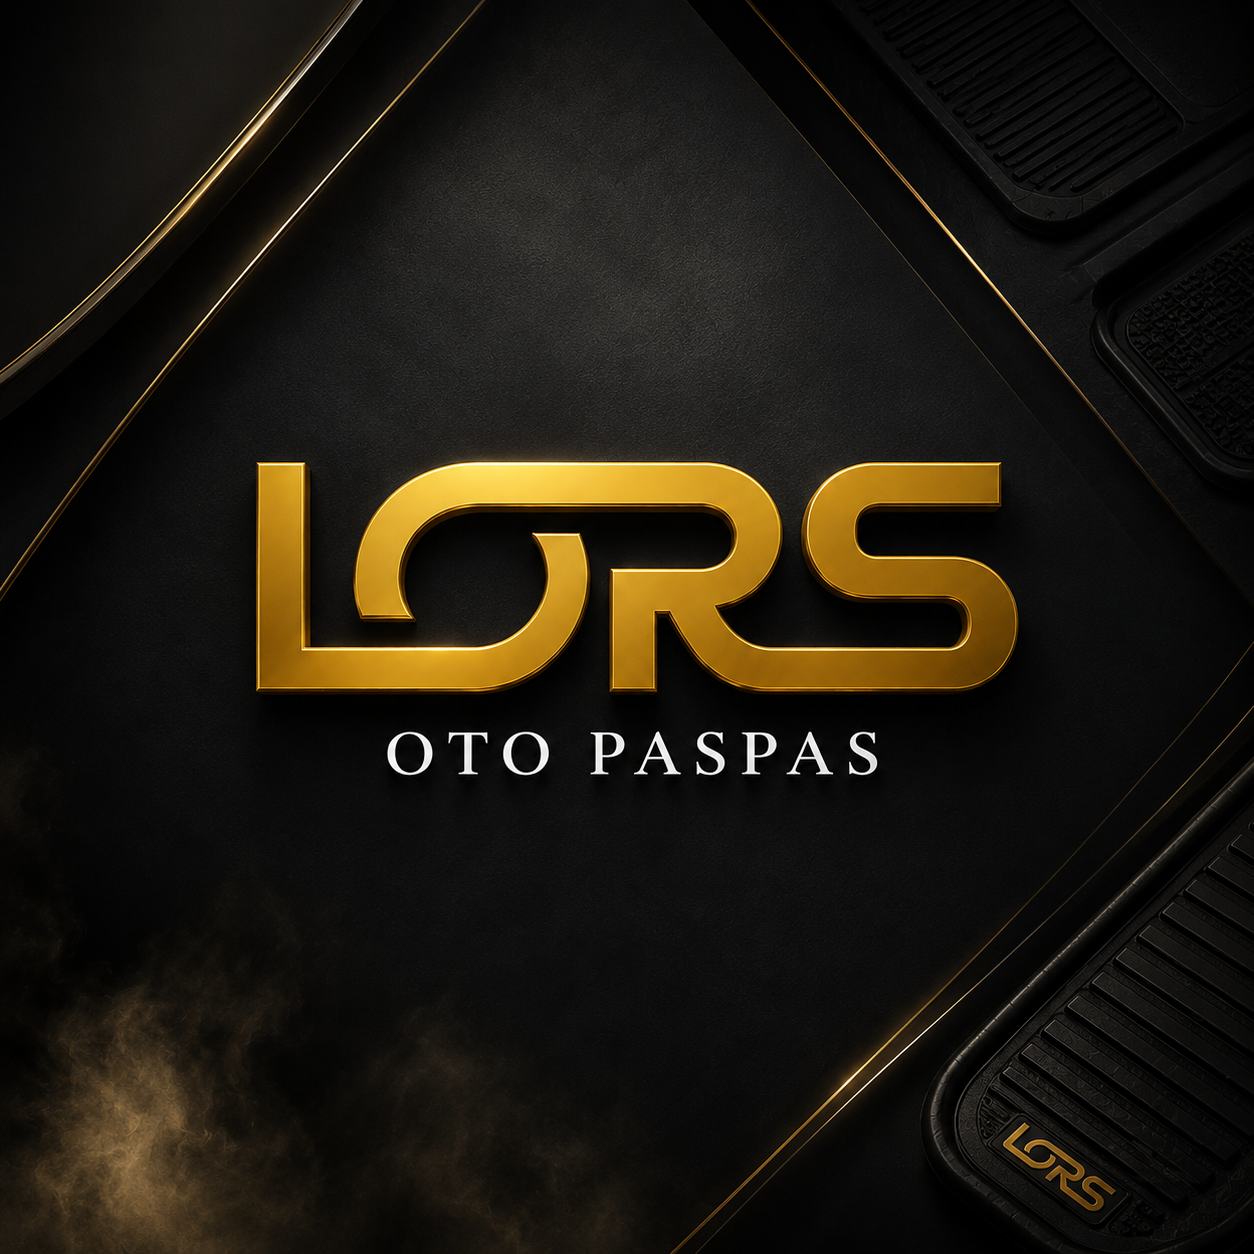
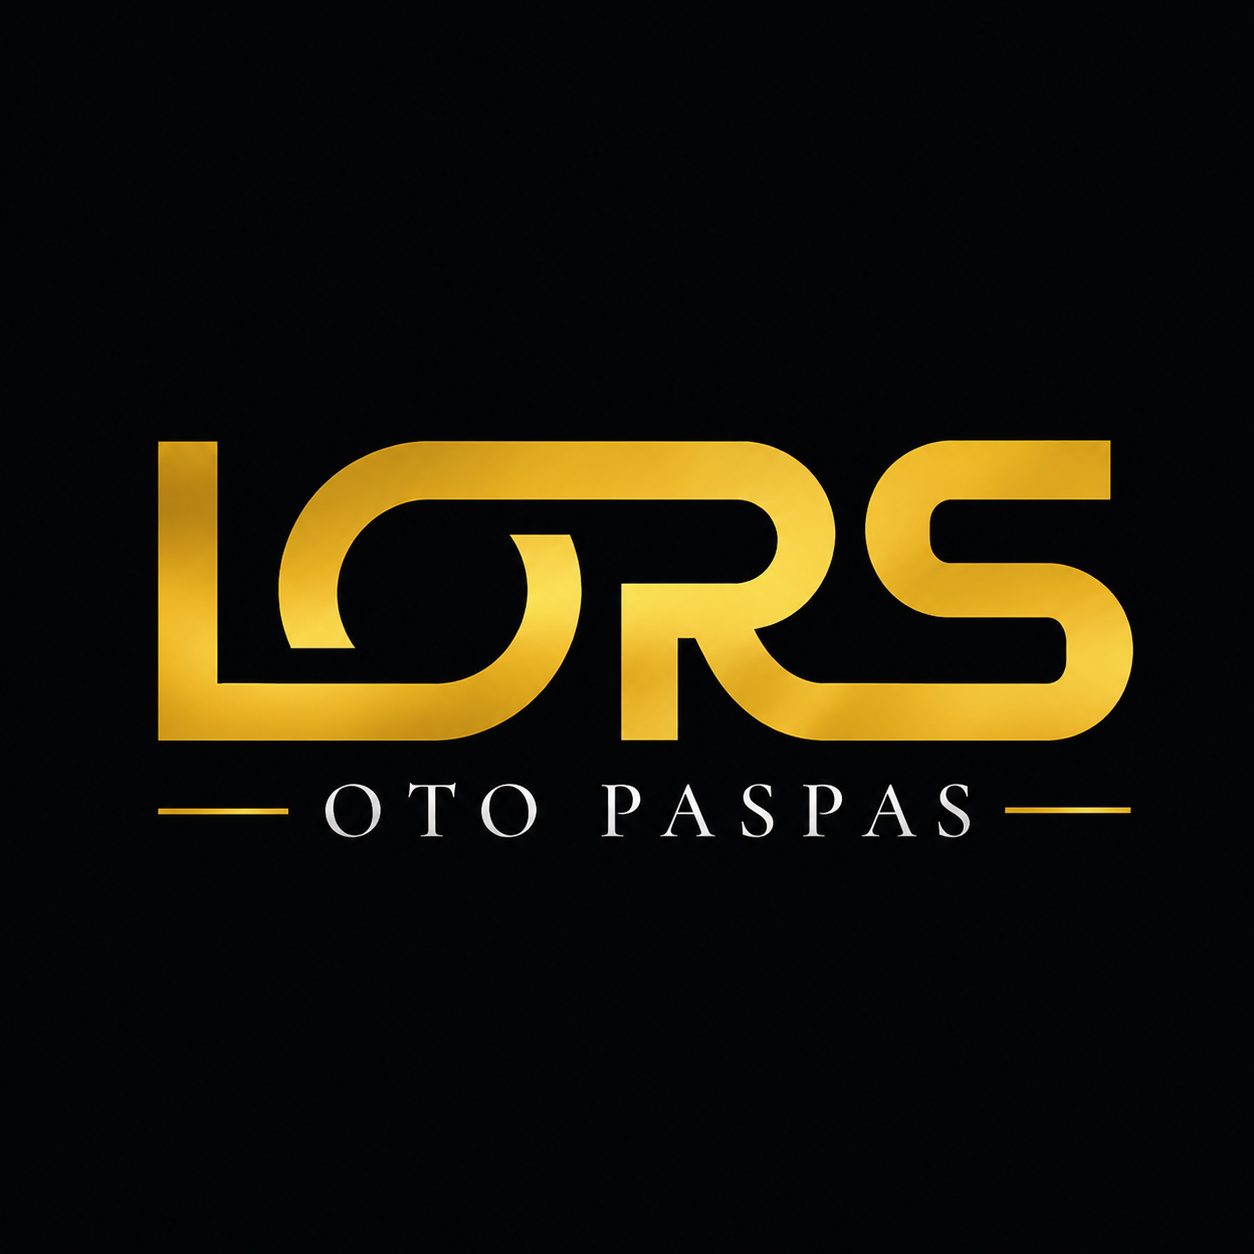
Reduce hero height on larger screens so it no longer fills the viewport
Lower min-heights (520/560/600 from 590/650/700) and tighten desktop vertical
padding so the hero reads as a banner, not a full-screen section.

diff --git a/src/components/home/Hero.tsx b/src/components/home/Hero.tsx
@@ -17,9 +17,9 @@ export default function Hero() {
         objectPosition="100% center"
         mobileObjectPosition="72% center"
         priority
-        className="min-h-[590px] w-full md:min-h-[650px] lg:min-h-[700px]"
+        className="min-h-[520px] w-full md:min-h-[560px] lg:min-h-[600px]"
       >
-        <div className="container-app flex min-h-[590px] flex-col justify-end pb-12 pt-24 text-[rgb(var(--dark-fg))] md:min-h-[650px] md:justify-center md:py-20 lg:min-h-[690px]">
+        <div className="container-app flex min-h-[520px] flex-col justify-end pb-12 pt-24 text-[rgb(var(--dark-fg))] md:min-h-[560px] md:justify-center md:py-16 lg:min-h-[600px]">
           <div className="max-w-[580px]">
             <span className="inline-flex max-w-full flex-wrap items-center gap-2 text-[10px] font-semibold uppercase leading-relaxed tracking-[0.16em] text-[rgb(var(--accent-2))] md:text-xs md:tracking-[0.26em]">
               <span className="h-px w-8 bg-[rgb(var(--gold))]" />